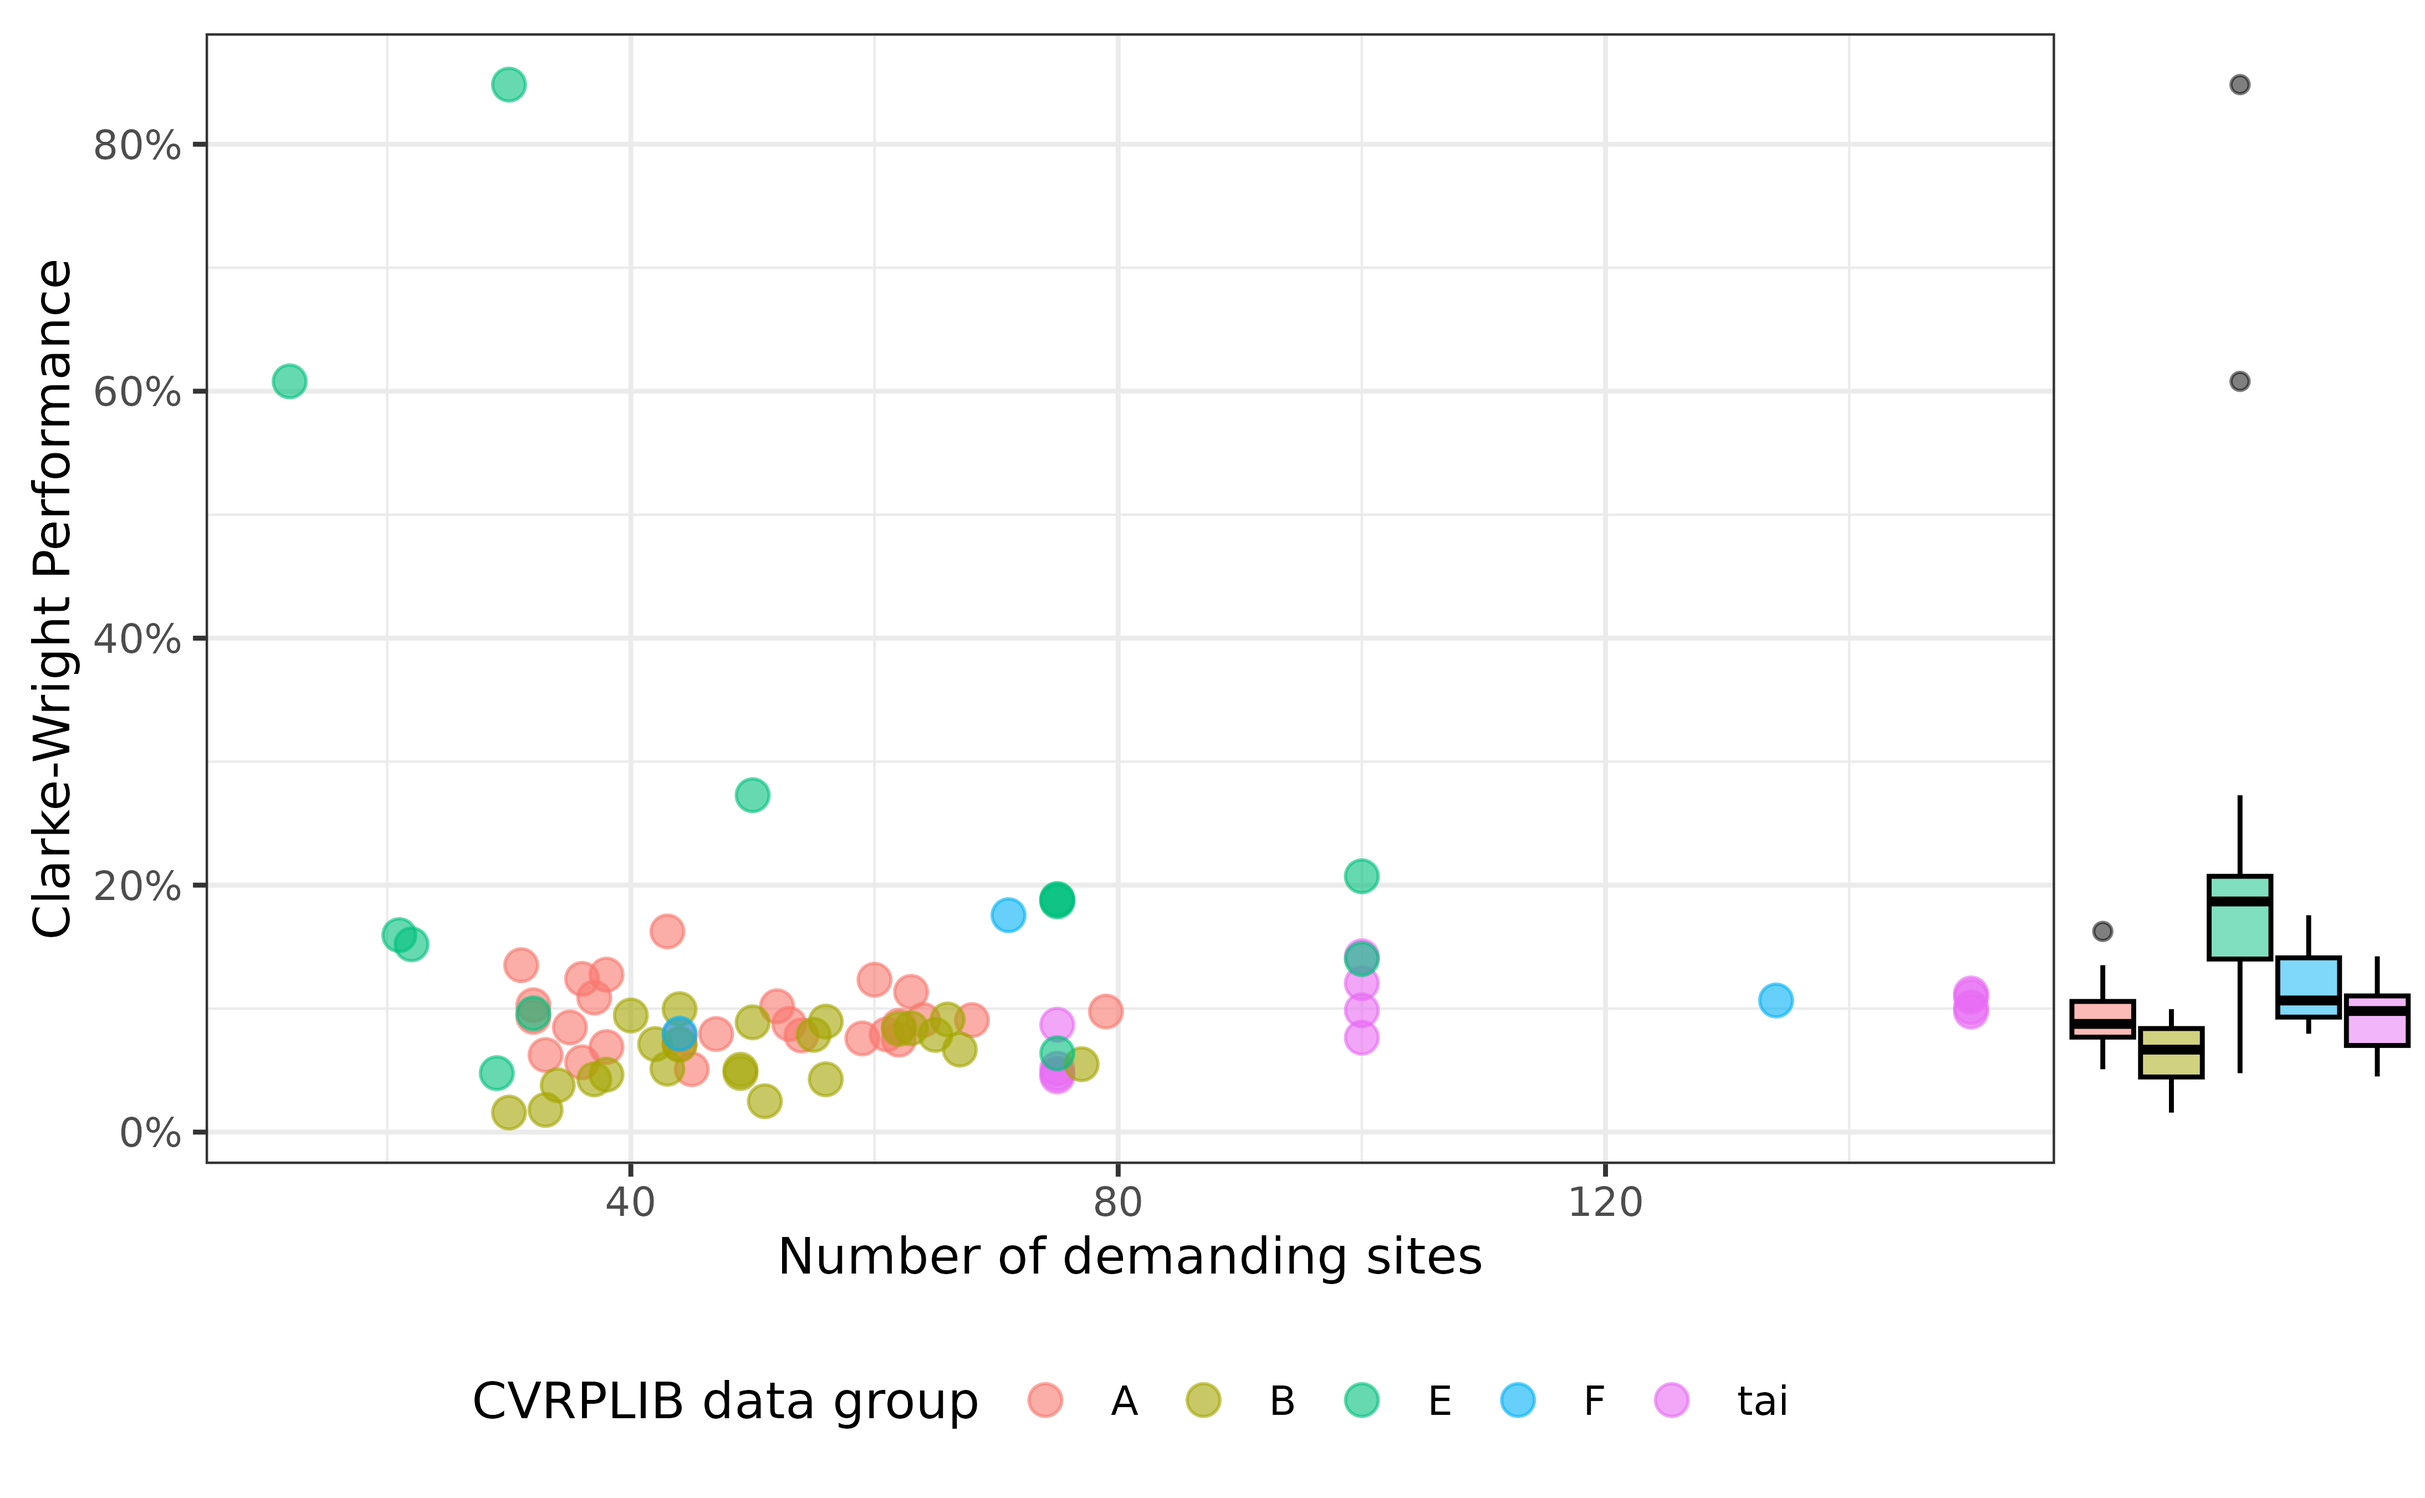
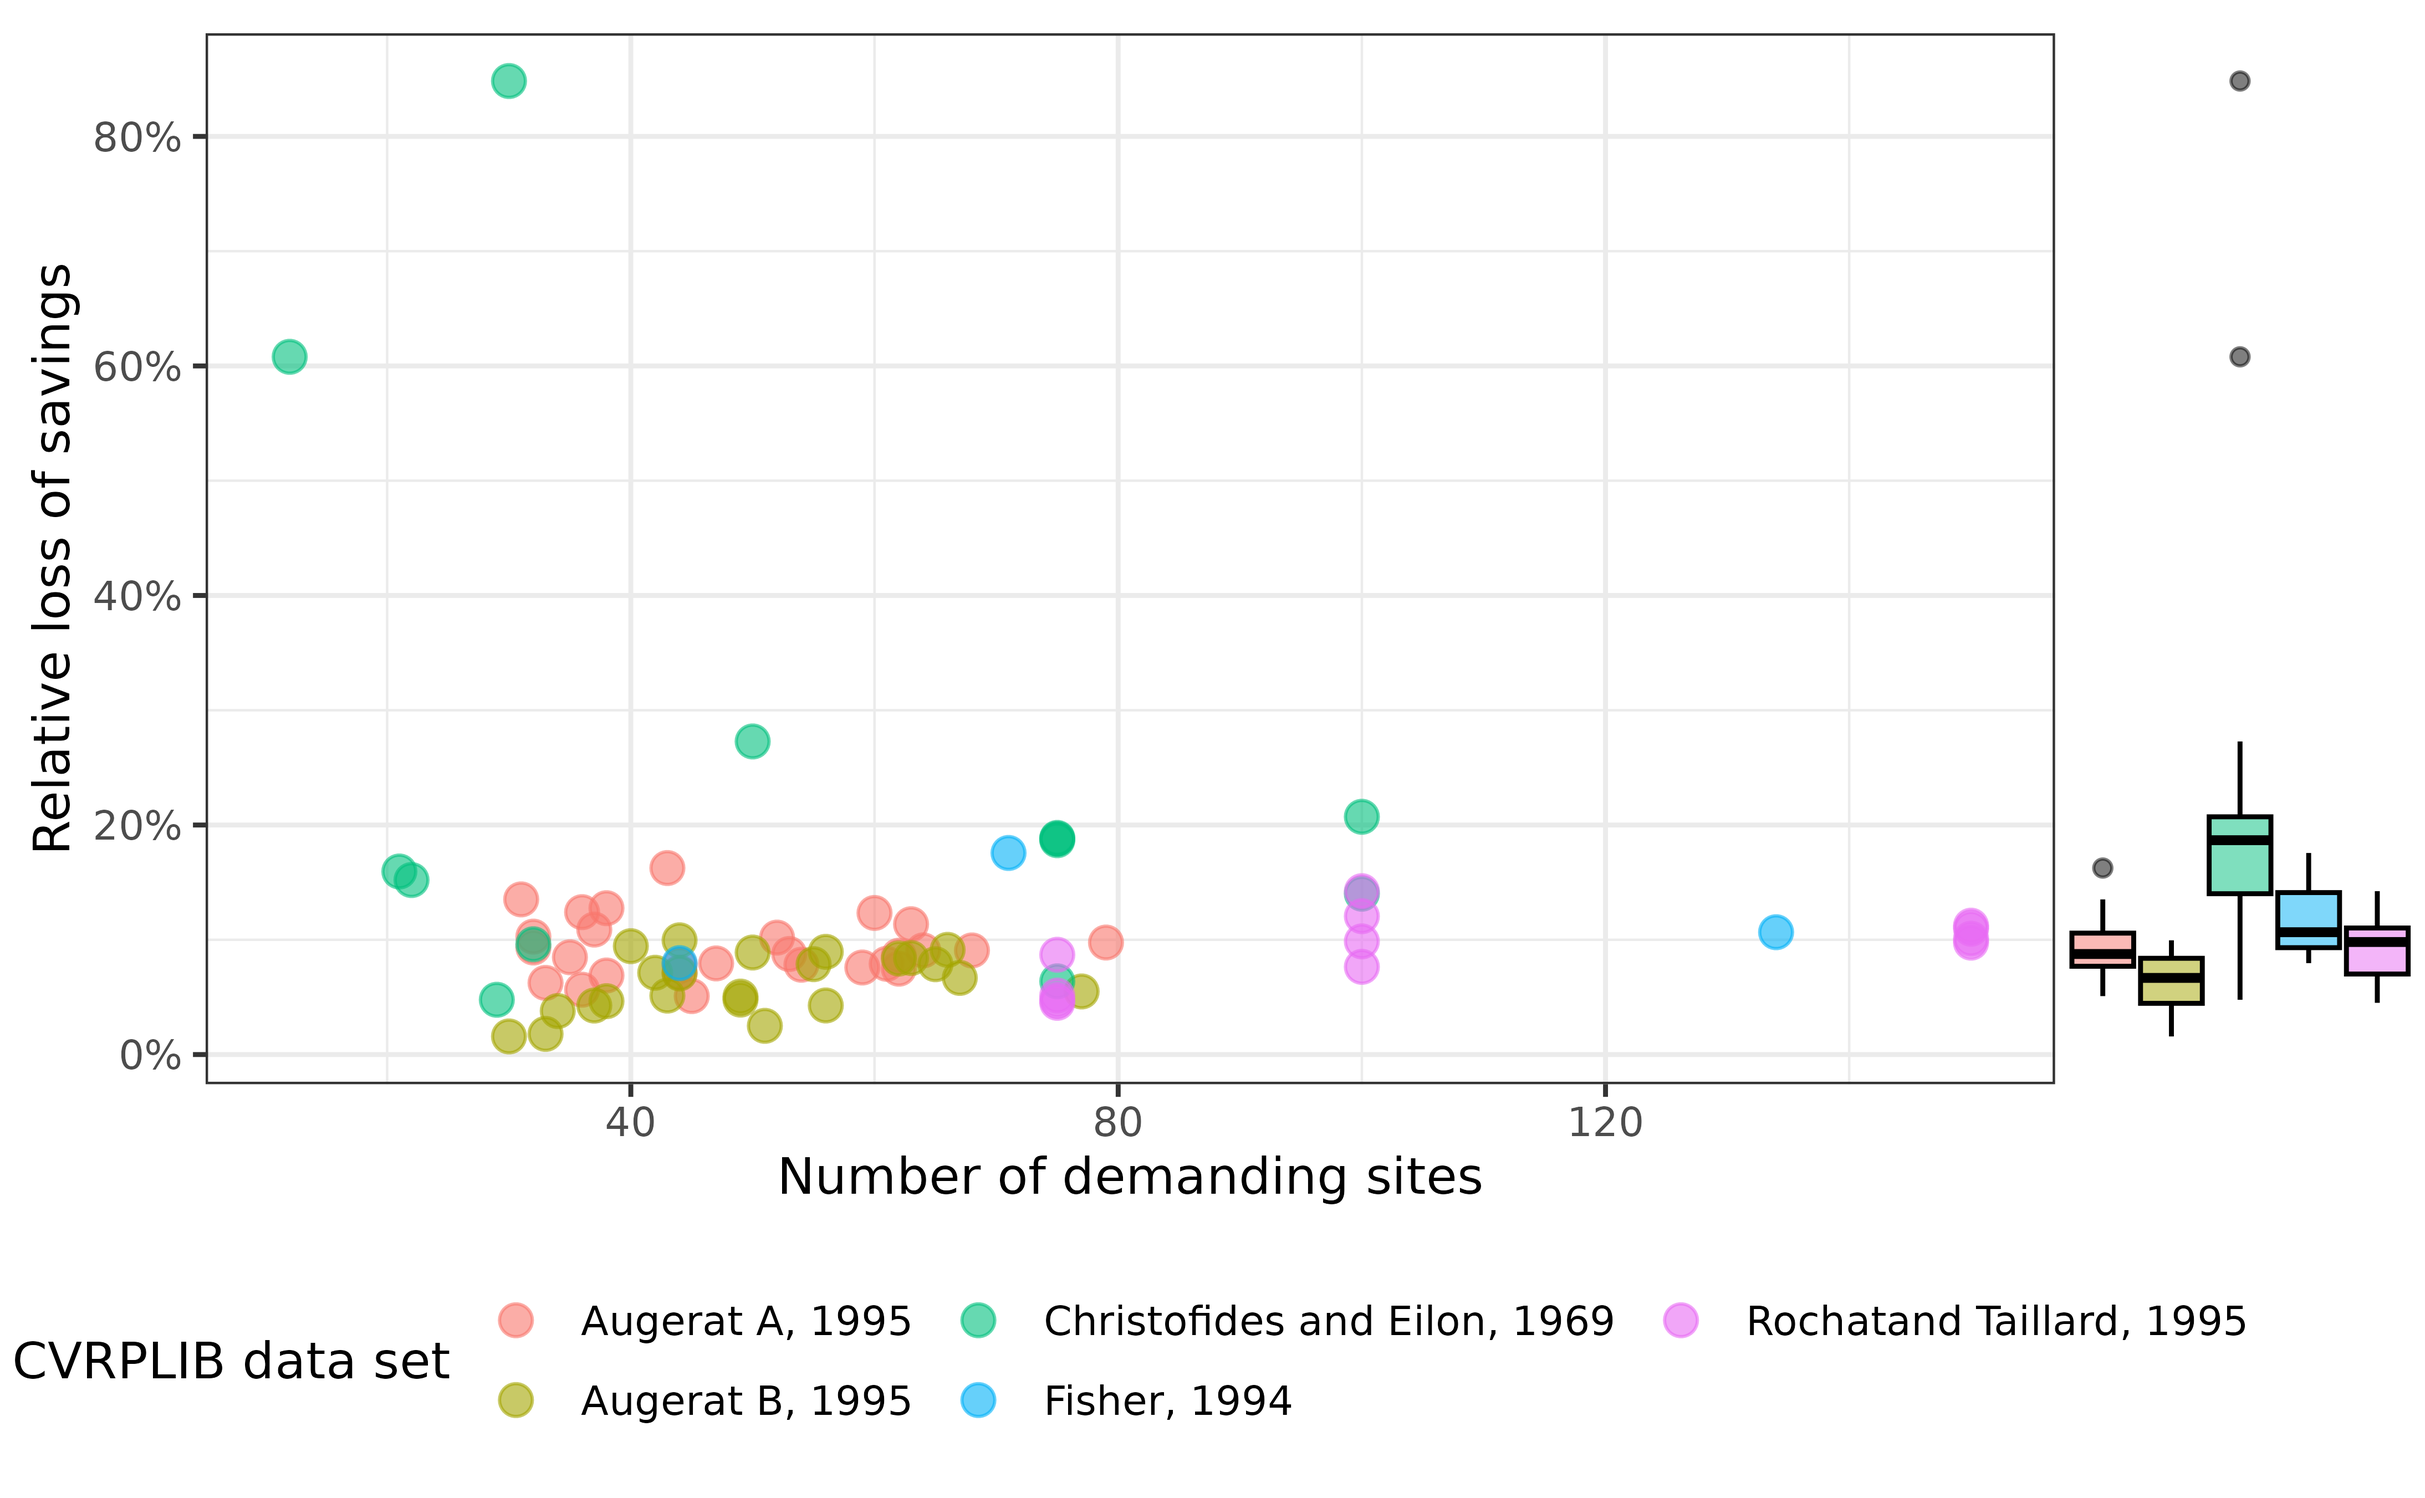
Deploying to gh-pages from @ lschneiderbauer/heumilkr@ea16a48ca55f0e0992cf61a37304961d5aeae193 🚀

diff --git a/articles/clarke_wright_performance.html b/articles/clarke_wright_performance.html
@@ -82,35 +82,54 @@
     
 <p>In this vignette we discuss performance benchmarks of the
 Clarke-Wright algorithm implemented in this package by comparing the
-Clarke-Wright solutions of a set of problem instances (provided by <a href="http://vrp.atd-lab.inf.puc-rio.br/" class="external-link">CVRPLIB</a>) with their
-optimal value.</p>
-<p>We focus on two performance measures, which we call “scale-based
-performance” and simply “relative performance”.</p>
+Clarke-Wright solutions of a set of problem instances with their optimal
+value.</p>
+<div class="section level3">
+<h3 id="the-problem-instance-data">The problem instance data<a class="anchor" aria-label="anchor" href="#the-problem-instance-data"></a>
+</h3>
+<p>The problem instances we are basing our measurements on are provided
+by by <a href="http://vrp.atd-lab.inf.puc-rio.br/" class="external-link">CVRPLIB</a> and can
+be divided into five groups<a class="footnote-ref" tabindex="0" data-bs-toggle="popover" data-bs-content='&lt;p&gt;The naming is directly taken from &lt;a href="http://vrp.atd-lab.inf.puc-rio.br/" class="external-link"&gt;CVRPLIB&lt;/a&gt;&lt;/p&gt;'><sup>1</sup></a> of different characterists:</p>
+<ul>
+<li><p>A - Augerat, 1995 (27 instances)</p></li>
+<li><p>B - Augerat, 1995 (23 instances)</p></li>
+<li><p>E - Christofides and Eilon, 1969 (13 instances)</p></li>
+<li><p>F - Fisher, 1994 (3 instances)</p></li>
+<li><p>Tai - Rochat and Taillard, 1995 (12 instances)</p></li>
+</ul>
+<p>The data provides the problem instance as well as the optimal
+solution.</p>
+</div>
 <div class="section level2">
-<h2 id="scale-based-performance-xi">Scale based performance <span class="math inline">\(\xi\)</span><a class="anchor" aria-label="anchor" href="#scale-based-performance-xi"></a>
+<h2 id="relation-to-optimal-and-trivial-solution">Relation to optimal and trivial solution<a class="anchor" aria-label="anchor" href="#relation-to-optimal-and-trivial-solution"></a>
 </h2>
-<p>The idea of the scale based performance measure is to measure where
-the Clarke-Wright solution is compared to both, the optimal solution,
-and the trivial solution<a class="footnote-ref" tabindex="0" data-bs-toggle="popover" data-bs-content="&lt;p&gt;By trivial solution we mean the solution where each site
-is assigned exactly one route (which goes back and forth).&lt;/p&gt;"><sup>1</sup></a>. Let <span class="math inline">\(c\)</span>
-be the cost of the Clarke-Wright solution, and <span class="math inline">\(\omega\)</span> the optimal solution, and <span class="math inline">\(\alpha\)</span> the cost of the trivial solution.
-The measure <span class="math inline">\(\xi\)</span> is defined by <span class="math display">\[\xi := 1 - \frac{c - \omega}{\alpha -
+<p>The idea this performance definition is to measure where the
+Clarke-Wright solution sits in between the optimal solution and the
+trivial solution<a class="footnote-ref" tabindex="0" data-bs-toggle="popover" data-bs-content="&lt;p&gt;By trivial solution we mean the solution where each site
+is assigned exactly one route (which goes back and forth).&lt;/p&gt;"><sup>2</sup></a>. Let <span class="math inline">\(\gamma\)</span> be the cost of the Clarke-Wright
+solution, and <span class="math inline">\(\omega\)</span> the optimal
+solution, and <span class="math inline">\(\alpha\)</span> the cost of
+the trivial solution. The measure <span class="math inline">\(\xi\)</span> is defined by <span class="math display">\[\xi := 1 - \frac{\gamma - \omega}{\alpha -
 \omega}\,.\]</span> The measure can move between zero and 1. It is zero
 if the Clarke-Wright solution is the trivial solution, and it is 1 if
 the Clarke-Wright solution is the optimal solution.</p>
 <p>Evaluating this for CVRPLIB sample data yields the following
 graph.</p>
 <p><img src="clarke_wright_performance_files/figure-html/perf_scale_based_graph-1.png" width="100%"></p>
+<p>The mean value over all problem instances is <span class="math inline">\(\overline{\xi}=96.7\%\)</span>.</p>
 </div>
 <div class="section level2">
-<h2 id="relative-performance-rho">Relative performance <span class="math inline">\(\rho\)</span><a class="anchor" aria-label="anchor" href="#relative-performance-rho"></a>
+<h2 id="relative-deviation-of-optimal-solution">Relative deviation of optimal solution<a class="anchor" aria-label="anchor" href="#relative-deviation-of-optimal-solution"></a>
 </h2>
 <p>We can also simply measure how far the optimal solution is away from
 the Clarke-Wright solution relative to the Clarke-Wright solution
-itself. <span class="math display">\[\rho := \frac{c -
-\Omega}{c}\,.\]</span> The value <span class="math inline">\(\rho\)</span> measures how much saving we missed
-by using the Clarke-Wright solution instead of the optimal solution.</p>
+itself. <span class="math display">\[\rho := \frac{\gamma -
+\Omega}{\gamma}\,.\]</span> The value <span class="math inline">\(\rho\)</span> measures how much savings we miss by
+using the Clarke-Wright solution instead of the optimal solution.</p>
 <p><img src="clarke_wright_performance_files/figure-html/perf_rel_graph-1.png" width="100%"></p>
+<p>The mean value over all problem instances is <span class="math inline">\(\overline{\rho}=11\%\)</span>, i.e. on average, we
+miss out on around <span class="math inline">\(11\%\)</span> savings
+taking the Clarke-Wright solution compared to the optimal one.</p>
 </div>
 
   </main><aside class="col-md-3"><nav id="toc"><h2>On this page</h2>
